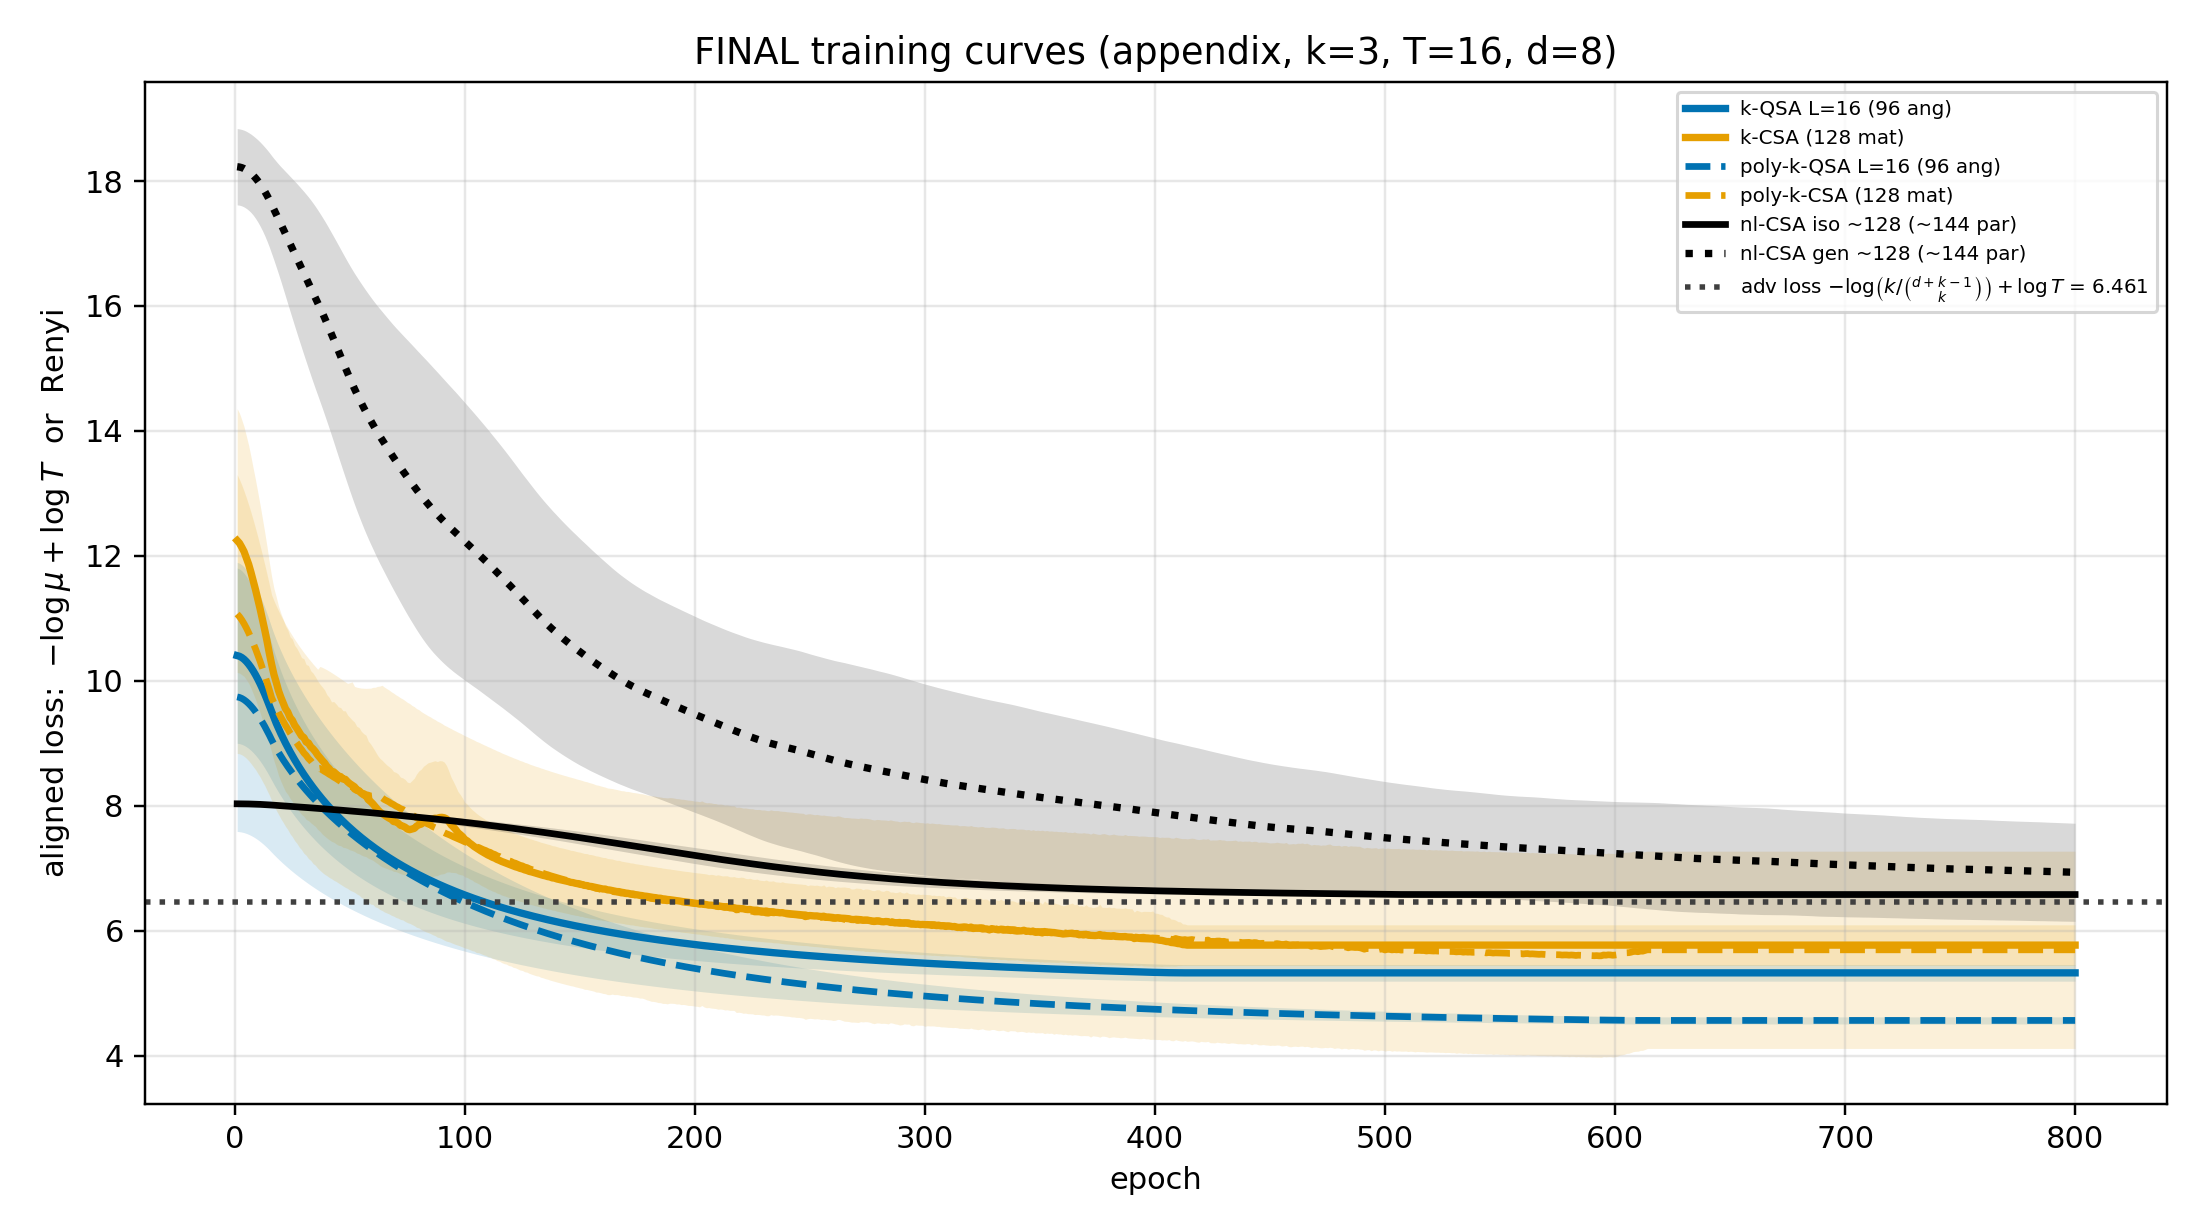
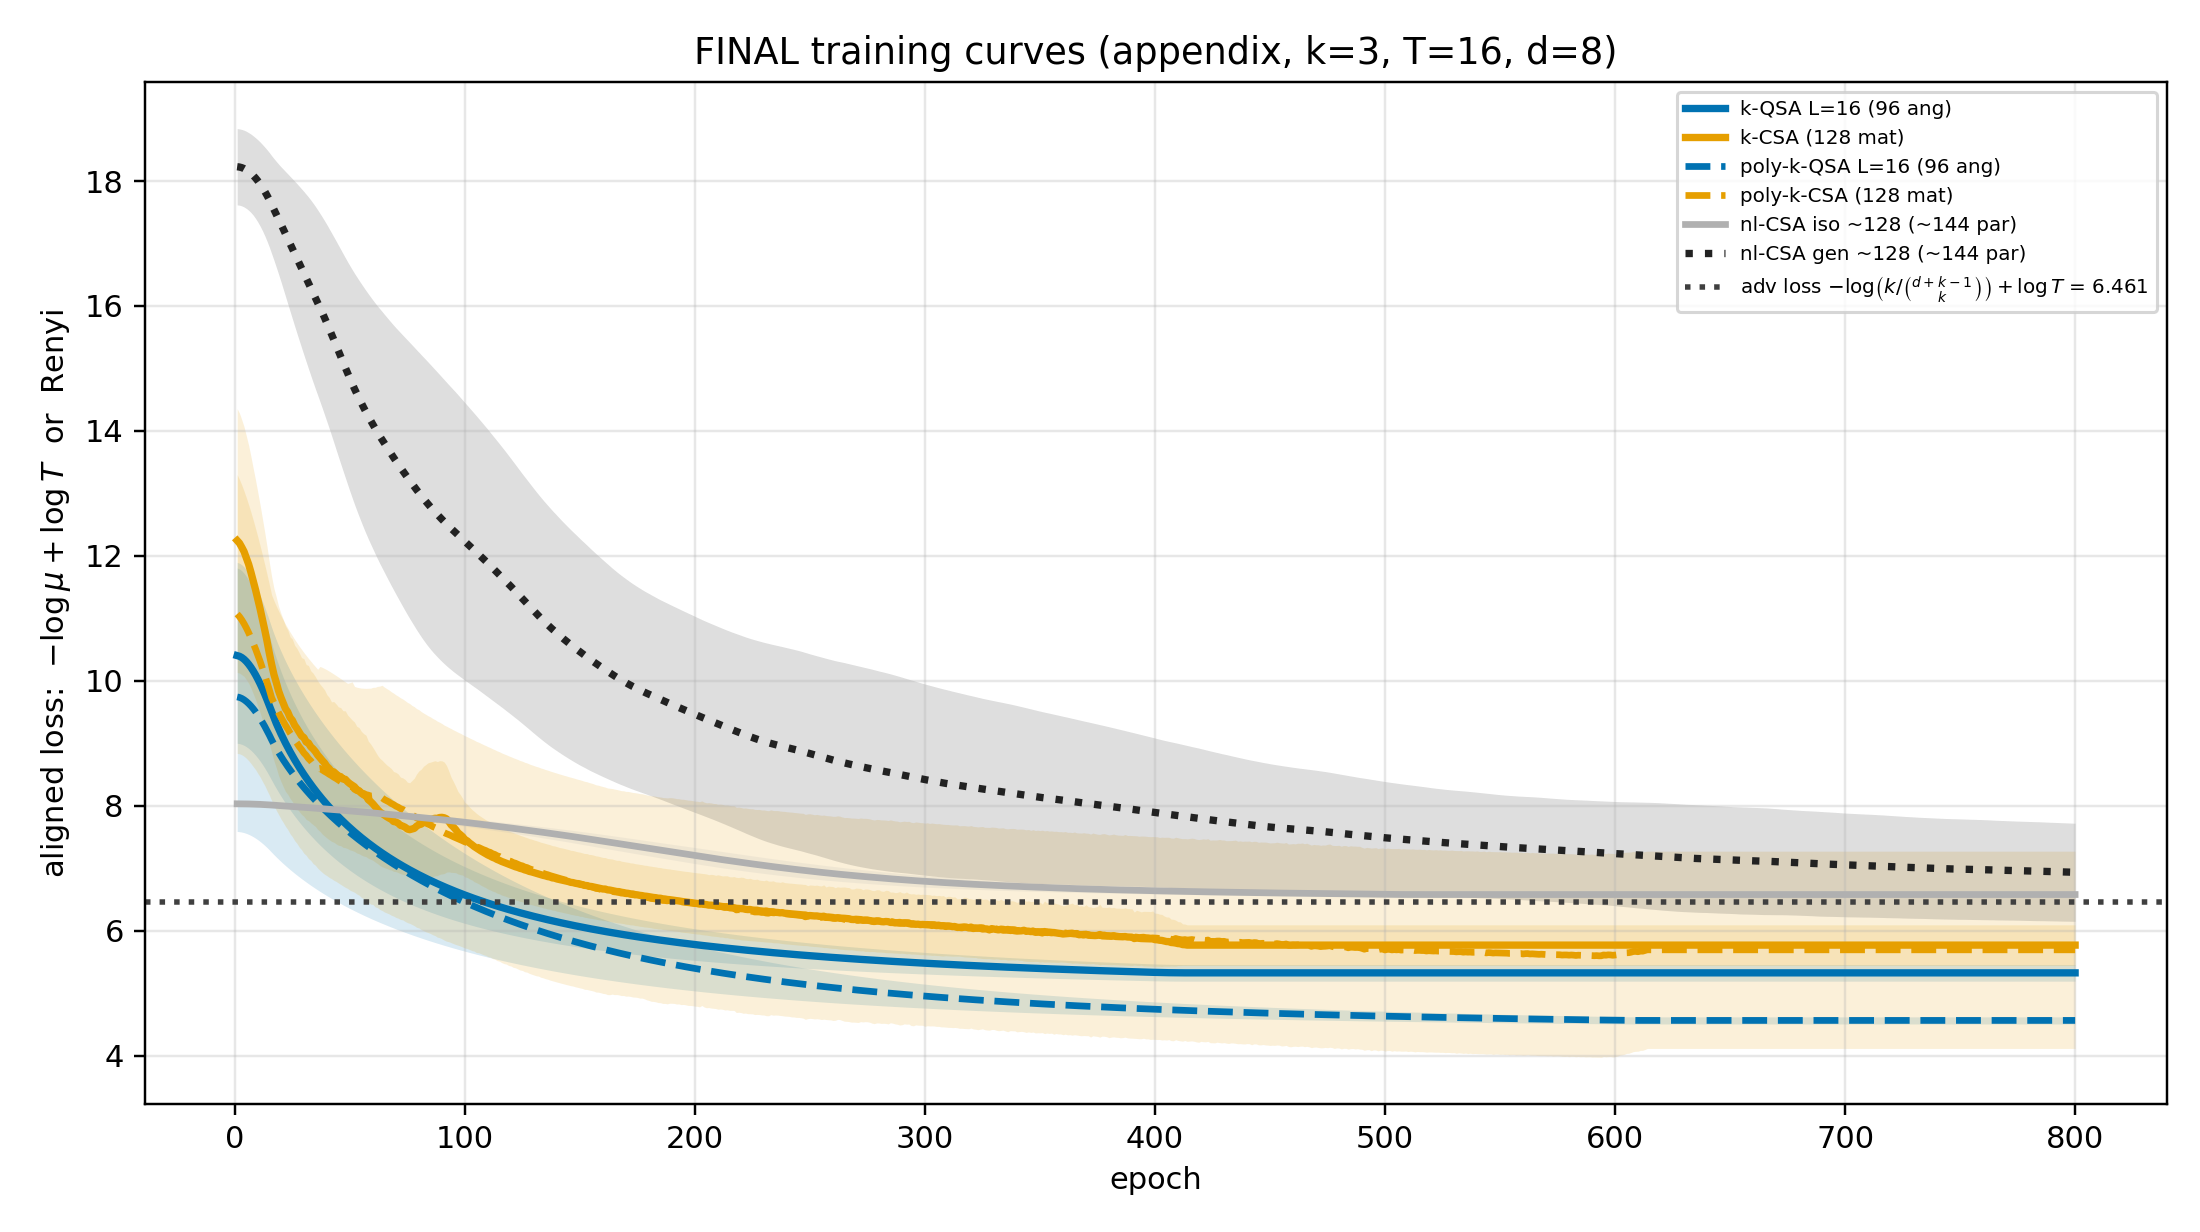
Update email notes for flipped log(mu/mu0) and nl-CSA envelopes.

Changed region(s): [[0.0927, 0.6477, 0.9582, 0.7403]]

diff --git a/results_from_hpc/final_campaign_v2/EMAIL_PROF.md b/results_from_hpc/final_campaign_v2/EMAIL_PROF.md
@@ -21,14 +21,16 @@ https://github.com/Alessio-Pecilli/variational_quantum_transformer_superposition
 **Test hold-out:**  
 https://github.com/Alessio-Pecilli/variational_quantum_transformer_superposition/blob/PennyLaneG/results_from_hpc/final_campaign_v2/loss/plots/final_aligned_loss_vs_k_test.png
 
-### NUOVO: log(μ₀/μ) vs k
+### NUOVO: log(μ/μ₀) vs k (segno positivo = miglioramento)
 
 Metrica di miglioramento rispetto all'inizializzazione random:  
-**log(μ₀/μ) = L_final − L₀**, dove L = −log μ + log T (nl-CSA: Δ Renyi).
+**log(μ/μ₀) = L₀ − L_final**, dove L = −log μ + log T (nl-CSA: Δ Renyi). Valori **positivi** = miglioramento.
 
 https://github.com/Alessio-Pecilli/variational_quantum_transformer_superposition/blob/PennyLaneG/results_from_hpc/final_campaign_v2/loss/plots/final_log_mu_ratio_vs_k.png
 
-Qui si vede chiaramente il comportamento crescente in k per il monomio (miglioramento decrescente / loss residua crescente), mentre il polinomio resta quasi piatto.
+**nl-CSA iso:** nel plot girato è **positivo** (~+1.45), non negativo — ha migliorato rispetto a L₀ (loss 8.03→6.58). Gen ancora di più (~+11.3, partiva da L₀ molto alto).
+
+**Envelope nl-CSA:** iso = grigio chiaro, gen = nero scuro (train e test).
 
 ### NUOVO: small-data test (80 frasi train vs 800)
 
